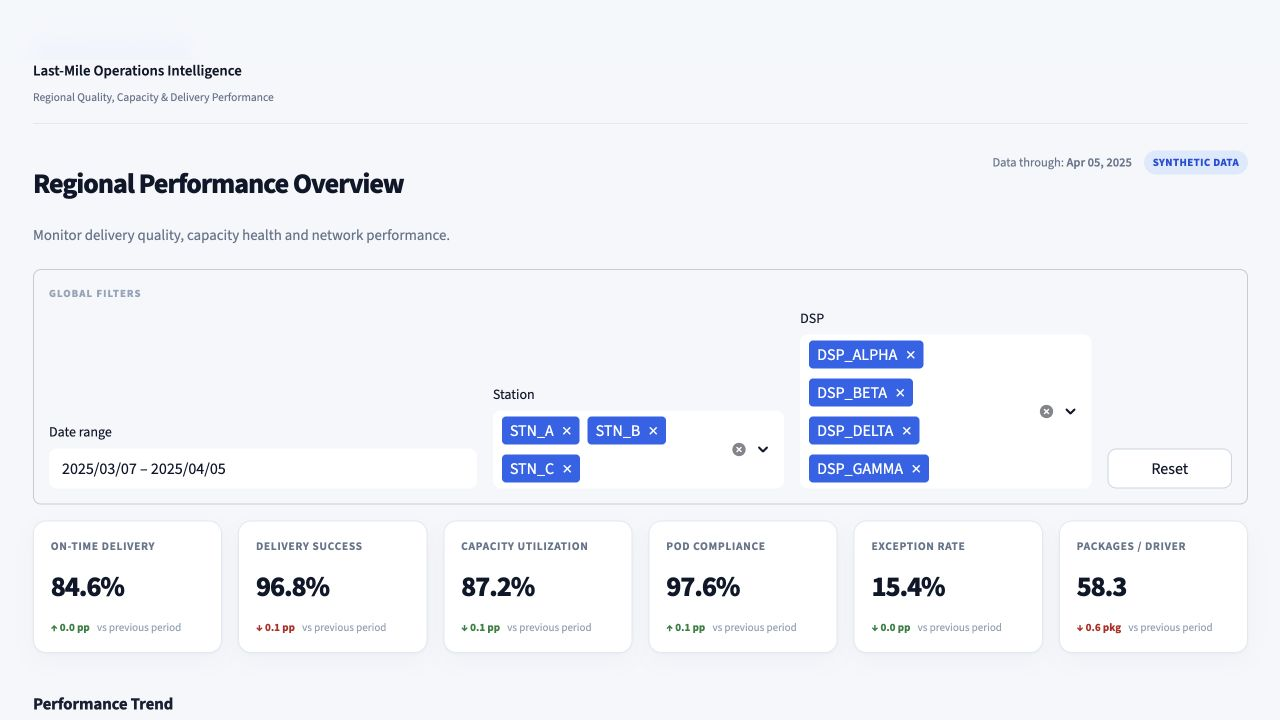
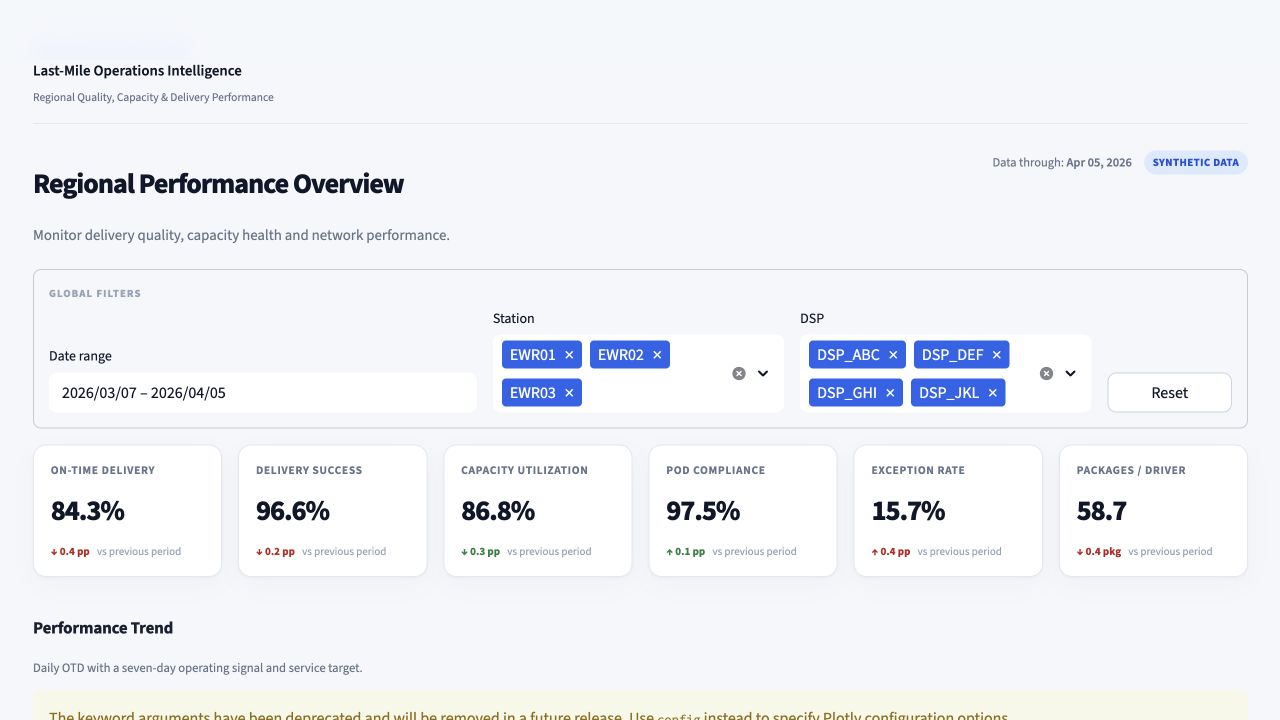
Migrate synthetic network data to 2026 identifiers

diff --git a/src/data_generation/data_dictionary.py b/src/data_generation/data_dictionary.py
@@ -3,23 +3,23 @@
 import pandas as pd
 
 FIELDS = [
-    ("stations", "station_id", "string", "Unique fictional station identifier", "STN_A"),
-    ("stations", "station_name", "string", "Fictional station display name", "Aurora Node"),
+    ("stations", "station_id", "string", "Unique fictional station identifier", "EWR01"),
+    ("stations", "station_name", "string", "Fictional station display name", "EWR01 Operations Node"),
     ("stations", "region", "string", "Fictional operating region", "REGION_NORTH"),
     ("stations", "market_type", "string", "Synthetic market classification", "URBAN_CORE"),
-    ("delivery_service_providers", "provider_id", "string", "Unique fictional provider identifier", "DSP_ALPHA"),
-    ("delivery_service_providers", "provider_name", "string", "Fictional provider display name", "Alpha Fleet Collective"),
+    ("delivery_service_providers", "provider_id", "string", "Unique fictional provider identifier", "DSP_ABC"),
+    ("delivery_service_providers", "provider_name", "string", "Fictional provider display name", "DSP_ABC"),
     ("delivery_service_providers", "contracted_capacity", "int64", "Synthetic daily package capacity", "1450"),
     ("delivery_service_providers", "active_drivers", "int64", "Number of active synthetic drivers", "24"),
     ("drivers", "driver_id", "string", "Unique fictional driver identifier", "DRV0001"),
-    ("drivers", "provider_id", "string", "Provider employing the synthetic driver", "DSP_ALPHA"),
+    ("drivers", "provider_id", "string", "Provider employing the synthetic driver", "DSP_ABC"),
     ("drivers", "tenure_days", "int64", "Synthetic driver tenure in days", "365"),
     ("drivers", "historical_attendance_rate", "float64", "Generated historical attendance proportion", "0.9625"),
     ("drivers", "historical_delivery_success_rate", "float64", "Generated historical delivery success proportion", "0.9712"),
     ("routes", "route_id", "string", "Unique fictional route identifier", "R000001"),
-    ("routes", "service_date", "date", "Synthetic route operating date", "2025-01-06"),
-    ("routes", "station_id", "string", "Origin station identifier", "STN_A"),
-    ("routes", "provider_id", "string", "Assigned provider identifier", "DSP_ALPHA"),
+    ("routes", "service_date", "date", "Synthetic route operating date", "2026-01-06"),
+    ("routes", "station_id", "string", "Origin station identifier", "EWR01"),
+    ("routes", "provider_id", "string", "Assigned provider identifier", "DSP_ABC"),
     ("routes", "driver_id", "string", "Assigned driver identifier", "DRV0001"),
     ("routes", "planned_packages", "int64", "Packages expected during planning", "46"),
     ("routes", "route_distance_miles", "float64", "Synthetic planned route distance", "42.75"),
@@ -30,9 +30,9 @@ FIELDS = [
     ("deliveries", "package_id", "string", "Unique fictional package identifier", "PKG000000001"),
     ("deliveries", "route_id", "string", "Associated fictional route identifier", "R000001"),
     ("deliveries", "driver_id", "string", "Associated fictional driver identifier", "DRV0001"),
-    ("deliveries", "service_date", "date", "Synthetic service date", "2025-01-06"),
-    ("deliveries", "pickup_timestamp", "timestamp", "Synthetic package pickup timestamp", "2025-01-06 08:12:00"),
-    ("deliveries", "delivery_timestamp", "timestamp", "Synthetic delivery or final-attempt timestamp", "2025-01-06 14:26:00"),
+    ("deliveries", "service_date", "date", "Synthetic service date", "2026-01-06"),
+    ("deliveries", "pickup_timestamp", "timestamp", "Synthetic package pickup timestamp", "2026-01-06 08:12:00"),
+    ("deliveries", "delivery_timestamp", "timestamp", "Synthetic delivery or final-attempt timestamp", "2026-01-06 14:26:00"),
     ("deliveries", "delivery_status", "string", "Synthetic final package outcome", "DELIVERED"),
     ("deliveries", "on_time_flag", "int8", "1 when successfully delivered on time", "1"),
     ("deliveries", "pod_compliant_flag", "int8", "1 when proof-of-delivery is compliant", "1"),

diff --git a/src/data_generation/config.py b/src/data_generation/config.py
@@ -11,7 +11,7 @@ class GenerationConfig:
     """Controls the size, dates, and reproducibility of generated data."""
 
     seed: int = 20250317
-    start_date: str = "2025-01-06"
+    start_date: str = "2026-01-06"
     days: int = 90
     min_routes_per_station_day: int = 15
     max_routes_per_station_day: int = 25
@@ -20,14 +20,14 @@ class GenerationConfig:
 
 
 STATION_PROFILES = (
-    {"station_id": "STN_A", "station_name": "Aurora Node", "region": "REGION_NORTH", "market_type": "URBAN_CORE", "quality_effect": 0.45, "density_mean": 1.65, "distance_mean": 42.0},
-    {"station_id": "STN_B", "station_name": "Beacon Node", "region": "REGION_CENTRAL", "market_type": "SUBURBAN_RING", "quality_effect": -0.35, "density_mean": 1.12, "distance_mean": 61.0},
-    {"station_id": "STN_C", "station_name": "Cobalt Node", "region": "REGION_SOUTH", "market_type": "MIXED_MARKET", "quality_effect": 0.05, "density_mean": 1.35, "distance_mean": 53.0},
+    {"station_id": "EWR01", "station_name": "EWR01 Operations Node", "region": "REGION_NORTH", "market_type": "URBAN_CORE", "quality_effect": 0.45, "density_mean": 1.65, "distance_mean": 42.0},
+    {"station_id": "EWR02", "station_name": "EWR02 Operations Node", "region": "REGION_CENTRAL", "market_type": "SUBURBAN_RING", "quality_effect": -0.35, "density_mean": 1.12, "distance_mean": 61.0},
+    {"station_id": "EWR03", "station_name": "EWR03 Operations Node", "region": "REGION_SOUTH", "market_type": "MIXED_MARKET", "quality_effect": 0.05, "density_mean": 1.35, "distance_mean": 53.0},
 )
 
 PROVIDER_PROFILES = (
-    {"provider_id": "DSP_ALPHA", "provider_name": "Alpha Fleet Collective", "contracted_capacity": 1450, "driver_count": 24, "quality_effect": 0.30},
-    {"provider_id": "DSP_BETA", "provider_name": "Beta Route Partners", "contracted_capacity": 1550, "driver_count": 26, "quality_effect": 0.05},
-    {"provider_id": "DSP_GAMMA", "provider_name": "Gamma Transit Group", "contracted_capacity": 1350, "driver_count": 23, "quality_effect": -0.55},
-    {"provider_id": "DSP_DELTA", "provider_name": "Delta Delivery Works", "contracted_capacity": 1600, "driver_count": 27, "quality_effect": 0.15},
+    {"provider_id": "DSP_ABC", "provider_name": "DSP_ABC", "contracted_capacity": 1450, "driver_count": 24, "quality_effect": 0.30},
+    {"provider_id": "DSP_DEF", "provider_name": "DSP_DEF", "contracted_capacity": 1550, "driver_count": 26, "quality_effect": 0.05},
+    {"provider_id": "DSP_GHI", "provider_name": "DSP_GHI", "contracted_capacity": 1350, "driver_count": 23, "quality_effect": -0.55},
+    {"provider_id": "DSP_JKL", "provider_name": "DSP_JKL", "contracted_capacity": 1600, "driver_count": 27, "quality_effect": 0.15},
 )

diff --git a/src/data_generation/operations.py b/src/data_generation/operations.py
@@ -48,14 +48,14 @@ def generate_routes(config: GenerationConfig, drivers: pd.DataFrame, rng: np.ran
                 utilization = actual_packages / planned_capacity
                 pickup_delay = max(0.0, rng.normal(5.5, 5.5) + max(utilization - 0.95, 0) * 36 + (4 if peak_day else 0) - provider["quality_effect"] * 5)
                 anomaly_type = "NONE"
-                if day_index == 21 and station_id == "STN_B":
+                if day_index == 21 and station_id == "EWR02":
                     pickup_delay += rng.uniform(35, 60)
                     anomaly_type = "STATION_SORT_DELAY"
-                elif day_index in (56, 57) and provider_id == "DSP_GAMMA":
+                elif day_index in (56, 57) and provider_id == "DSP_GHI":
                     actual_packages = min(actual_packages + int(rng.integers(12, 22)), 82)
                     pickup_delay += rng.uniform(18, 35)
                     anomaly_type = "PROVIDER_CAPACITY_STRESS"
-                elif day_index == 73 and station_id == "STN_C":
+                elif day_index == 73 and station_id == "EWR03":
                     pickup_delay += rng.uniform(20, 42)
                     anomaly_type = "LOCAL_PROCESS_DISRUPTION"
                 reliability = (float(driver["historical_attendance_rate"]) + float(driver["historical_delivery_success_rate"])) / 2

diff --git a/README.md b/README.md
@@ -71,12 +71,12 @@ The generator creates a fictional regional network with realistic operating rela
 
 | Dimension | Synthetic design |
 |---|---:|
-| Analysis period | 90 days: 2025-01-06 through 2025-04-05 |
+| Analysis period | 90 days: 2026-01-06 through 2026-04-05 |
 | Stations | 3 fictional nodes |
 | DSPs | 4 fictional providers |
 | Drivers | 100 fictional drivers |
-| Routes | 5,347 |
-| Package deliveries | 237,891 |
+| Routes | 5,441 |
+| Package deliveries | 241,349 |
 | Random seed | `20250317` |
 
 Embedded synthetic behavior includes lower route density increasing late-delivery risk, service degradation at high utilization, pickup delay reducing OTD, driver reliability influencing outcomes, fictional station/DSP differences, weekday and peak effects, and sparse injected anomalies.
@@ -161,8 +161,8 @@ Logistic Regression and Random Forest are compared using only signals available 
 
 | Model | Holdout ROC-AUC | Precision | Recall | F1 |
 |---|---:|---:|---:|---:|
-| Logistic Regression | 0.902 | 0.760 | 0.805 | 0.782 |
-| Random Forest | 0.892 | 0.767 | 0.779 | 0.773 |
+| Logistic Regression | 0.905 | 0.785 | 0.844 | 0.813 |
+| Random Forest | 0.897 | 0.759 | 0.830 | 0.793 |
 
 The selected prototype outputs a route-level risk score, Low/Medium/High tier, and feature importance. These metrics are synthetic portfolio results—not evidence of production model performance.
 
@@ -182,13 +182,13 @@ Reusable components provide consistent filters, KPI cards, insight cards, status
 
 The following results were calculated from generated data and demonstrate operational reasoning only:
 
-- Regional synthetic OTD was **84.5%**, delivery success **96.8%**, and exception rate **15.5%**.
-- Above a data-derived **102.1% utilization threshold**, average OTD was **7.7 percentage points lower**.
-- Above a data-derived **16.4-minute pickup-delay threshold**, average OTD was **12.1 percentage points lower**.
-- Fictional `DSP_GAMMA` had the lowest synthetic OTD at **75.3%**, **9.2 points below** the regional result.
-- Fictional `STN_B` had the highest synthetic station exception rate at **22.3%**.
+- Regional synthetic OTD was **84.5%**, delivery success **96.7%**, and exception rate **15.5%**.
+- Above a data-derived **102.0% utilization threshold**, average OTD was **7.0 percentage points lower**.
+- Above a data-derived **16.1-minute pickup-delay threshold**, average OTD was **12.1 percentage points lower**.
+- Fictional `DSP_GHI` had the lowest synthetic OTD at **75.9%**, **8.6 points below** the regional result.
+- Fictional `EWR02` had the highest synthetic station exception rate at **22.3%**.
 - The rolling monitor identified **31 synthetic OTD-drop or exception-spike events**.
-- `LATE_DELIVERY` represented **77.0%** of synthetic exceptions.
+- `LATE_DELIVERY` represented **76.6%** of synthetic exceptions.
 
 These are **synthetic project findings**, not observations, estimates, or claims about a real logistics network.
 
